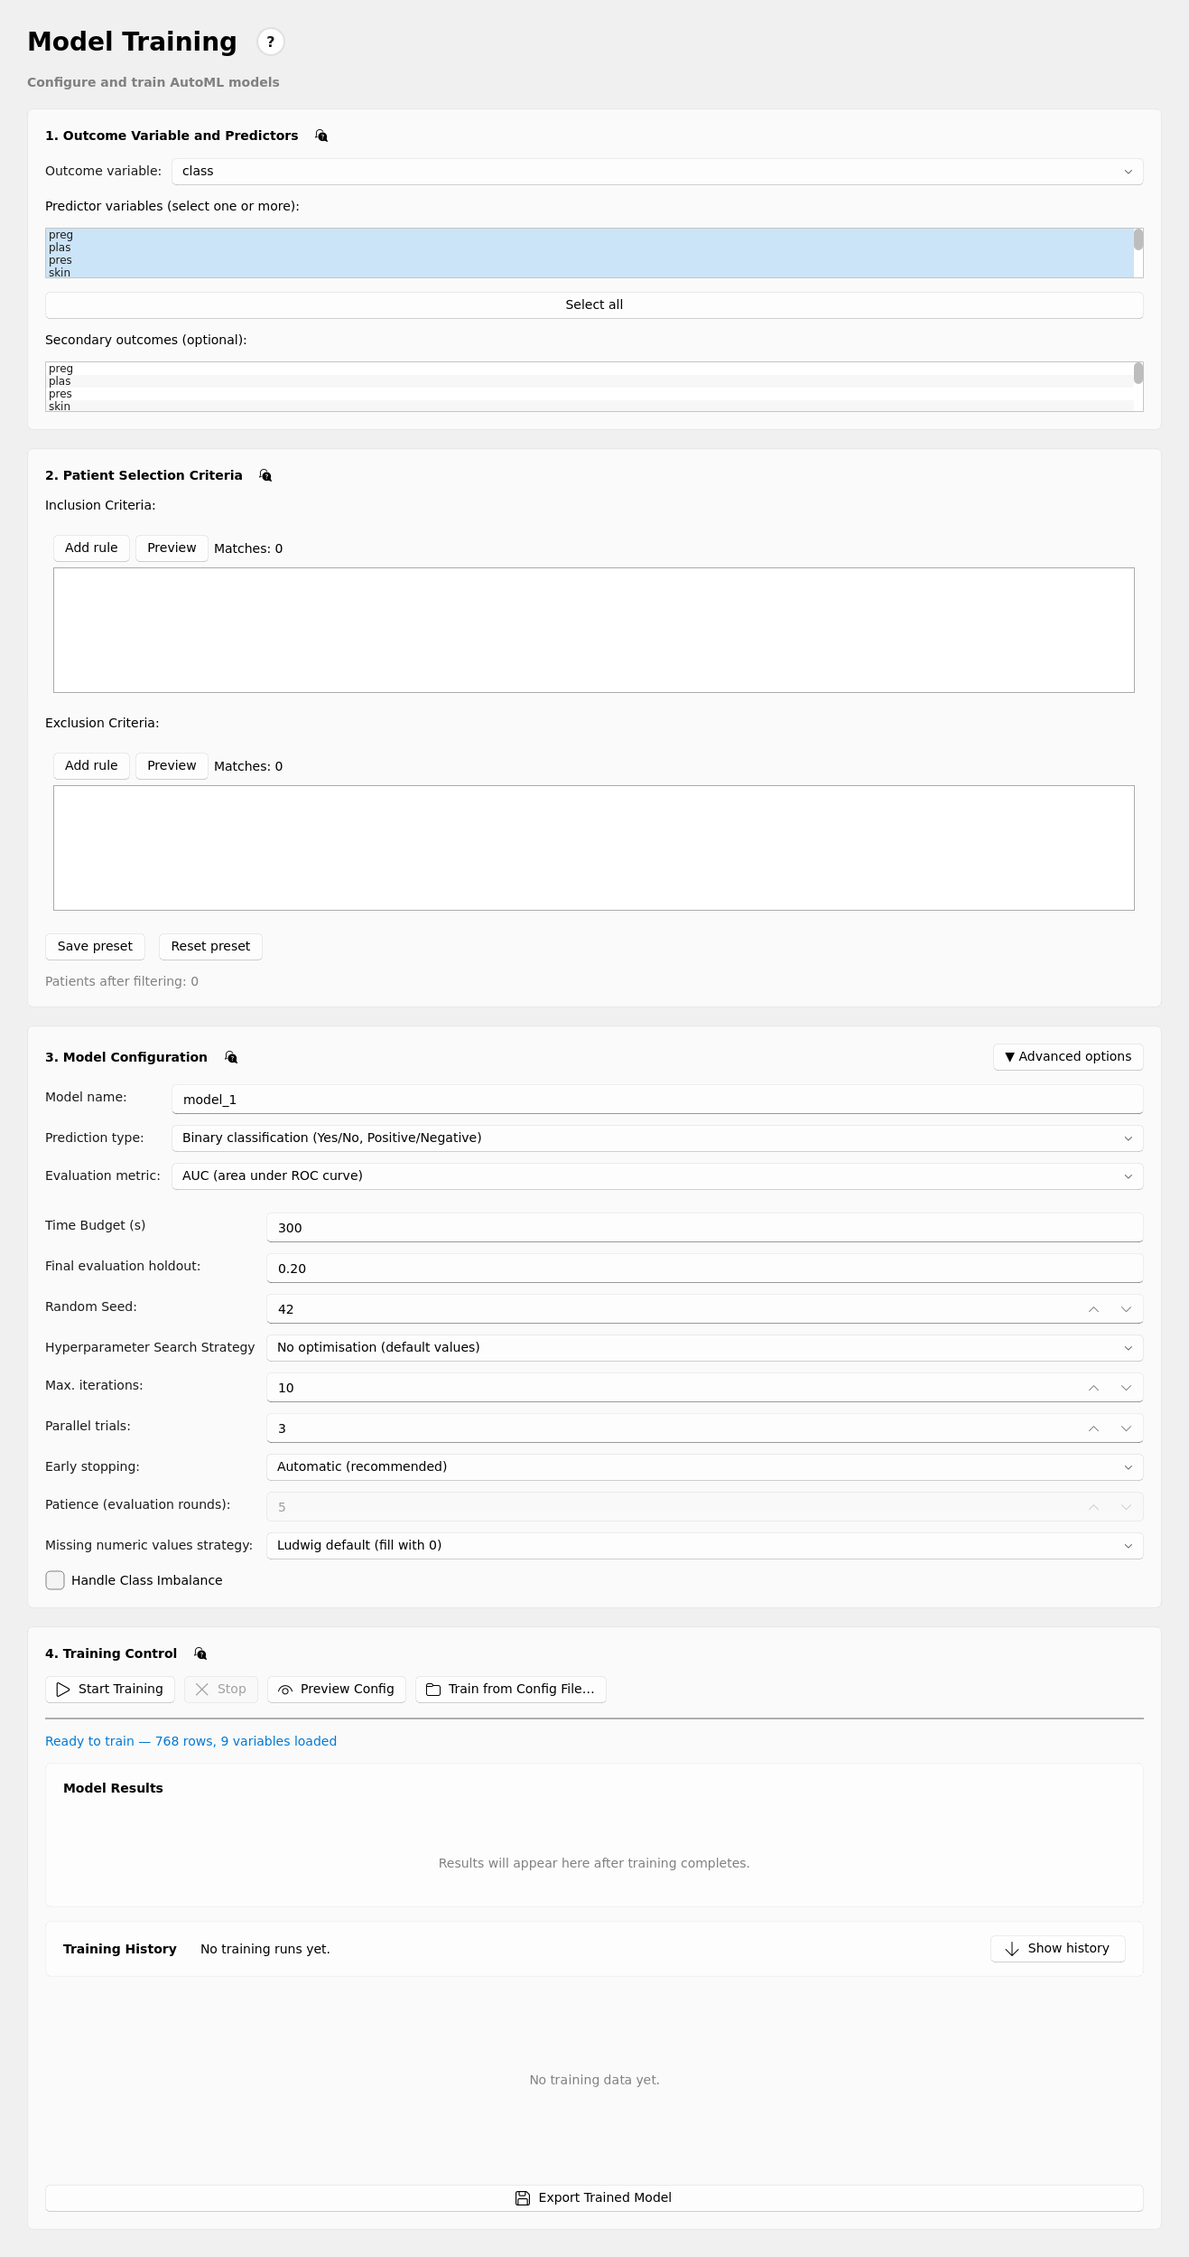
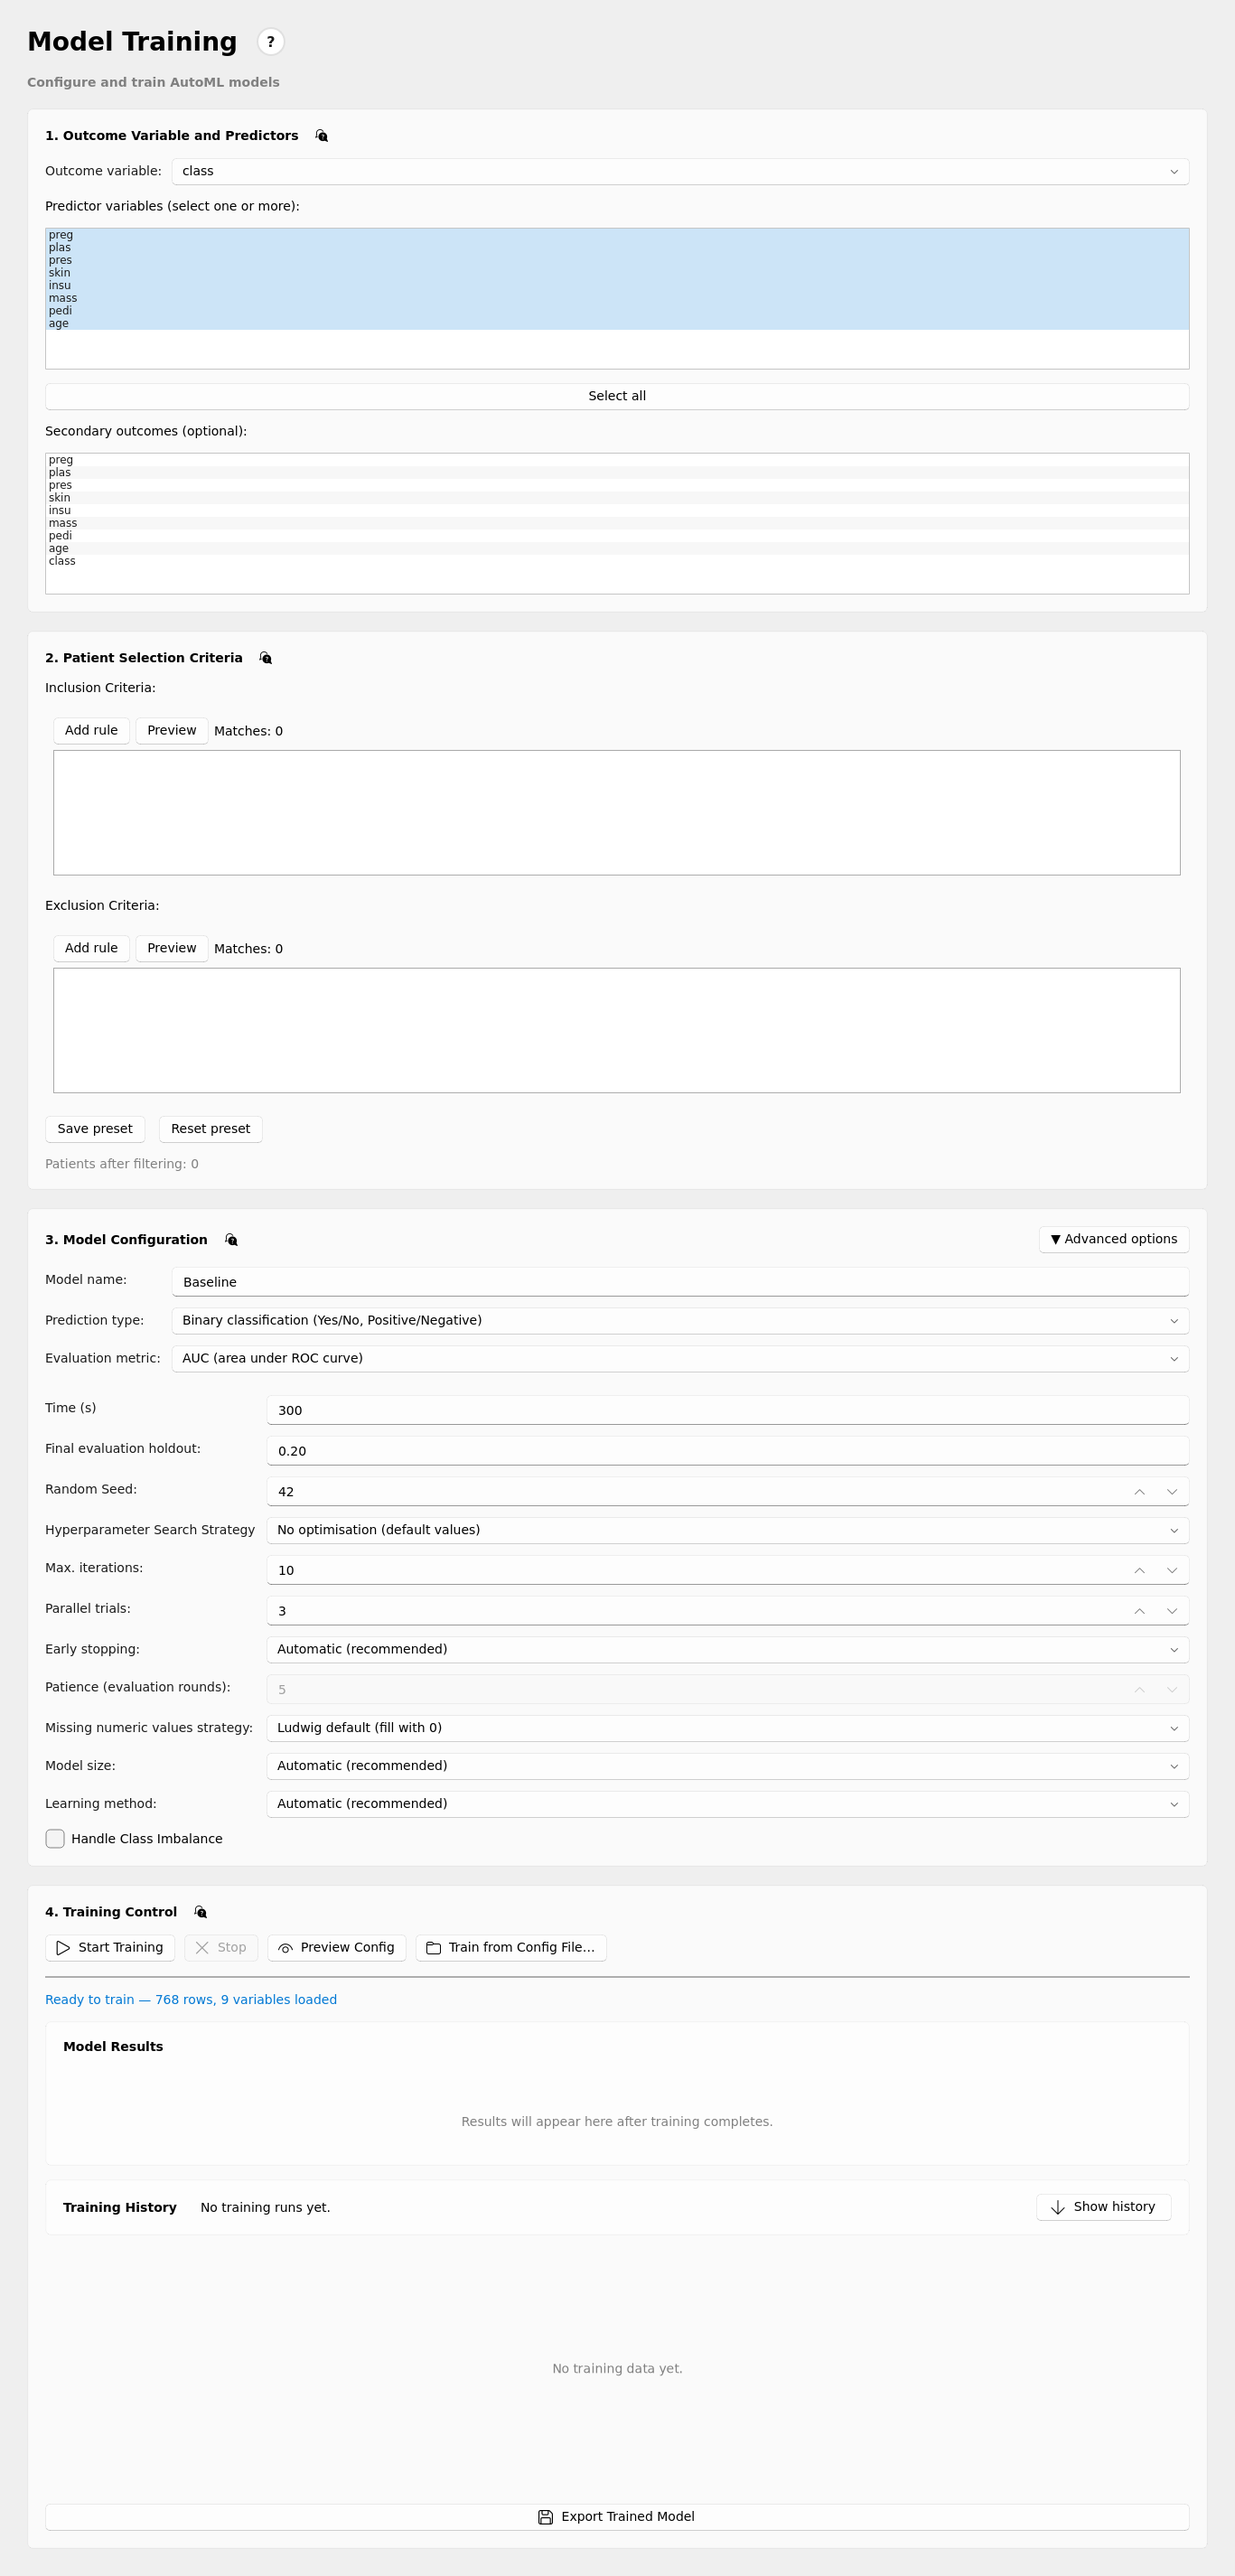
Refresh training screenshots and add the pre-training summary window

diff --git a/src/hamelin/view/widgets/training_summary_dialog.py b/src/hamelin/view/widgets/training_summary_dialog.py
@@ -50,7 +50,10 @@ def _row_widget(row: SummaryRow) -> QWidget:
     lay.setContentsMargins(0, 4, 0, 4)
     lay.setSpacing(12)
 
-    left = QVBoxLayout()
+    left_box = QWidget()
+    left_box.setFixedWidth(330)          # same column width on every row
+    left = QVBoxLayout(left_box)
+    left.setContentsMargins(0, 0, 0, 0)
     left.setSpacing(2)
     label = StrongBodyLabel(row.label)
     label.setWordWrap(True)
@@ -60,19 +63,19 @@ def _row_widget(row: SummaryRow) -> QWidget:
         hint.setWordWrap(True)
         bind_style(hint, lambda c: f"color: {c.text_secondary}; font-size: 12px;")
         left.addWidget(hint)
-    lay.addLayout(left, 5)
+    lay.addWidget(left_box, 0, Qt.AlignTop)
 
     value = BodyLabel(row.value)
     value.setWordWrap(True)
     value.setTextInteractionFlags(Qt.TextSelectableByMouse)
-    lay.addWidget(value, 4)
+    lay.addWidget(value, 1, Qt.AlignTop)
 
     pill = BodyLabel(t(_ORIGIN_KEYS[row.origin]) if row.origin else "")
     pill.setAlignment(Qt.AlignRight | Qt.AlignTop)
     if row.origin:
         pill.setStyleSheet(f"color: {_ORIGIN_COLOURS[row.origin]}; font-weight: 600;")
-    pill.setMinimumWidth(110)
-    lay.addWidget(pill, 0)
+    pill.setFixedWidth(170)
+    lay.addWidget(pill, 0, Qt.AlignTop)
     return box
 
 

diff --git a/docs/hamelin/MANUAL.es.md b/docs/hamelin/MANUAL.es.md
@@ -247,6 +247,8 @@ Solo se muestran tres campos por defecto; el resto vive tras "▶ Advanced optio
 3. Al terminar, el panel de Resultados muestra 4 tarjetas según lo entrenado: clasificación (AUC-ROC, Accuracy, Sensitivity, Specificity) o regresión (R², RMSE, MAE, Loss); cualquier otra métrica de Ludwig aparece en una línea más pequeña. Matriz de confusión y curva ROC para tareas de clasificación, cuando están disponibles.
 4. **Stop** cancela en cualquier momento; se muestran los resultados parciales hasta el último trial completado.
 
+![Review before training](images/training_summary.png)
+
 **Preview Config** (junto a Start Training): abre una ventana de solo lectura con la configuración de Ludwig que se usará, construida a partir de tus elecciones en *Model Configuration* — sin entrenar. AutoML completa el resto (arquitectura, encoders…) al empezar; si has preparado una config fija (modelo duplicado o archivo importado), muestra esa config exacta. La configuración final completa de cada modelo entrenado se consulta después en la página *Evaluation* (**View Config**).
 
 **«How to read this result»** (en inglés, debajo del resumen verde; aparece tras entrenar y, para cada modelo, en *Evaluation*). Lo generan **reglas explícitas** (no un modelo de IA), así que es reproducible y auditable. Contiene:

diff --git a/docs/hamelin/MANUAL.md b/docs/hamelin/MANUAL.md
@@ -224,6 +224,8 @@ A visual builder for inclusion/exclusion rules (column, operator, value). A pati
 3. When it finishes, the Results panel shows four cards: for classification AUC-ROC, Accuracy, Sensitivity and Specificity; for regression R², RMSE, MAE and Loss. Confusion matrix and ROC curve are shown for classification.
 4. **Stop** cancels at any time; partial results up to the last completed trial are shown.
 
+![Review before training](images/training_summary.png)
+
 **Preview Config** opens a read-only window with the Ludwig configuration that will be used, built from your choices, without training. AutoML completes the rest (architecture, encoders, …) when it starts.
 
 **How to read this result** appears under the green summary after training and, for each model, in Evaluation. It is written in English and generated by **explicit rules** (not by an AI model), so it is reproducible and auditable:

diff --git a/README.md b/README.md
@@ -113,7 +113,8 @@ The built-in **Help** page explains each screen in detail.
 |---|---|
 | ![Project](docs/hamelin/images/project_page.png) **Project** | ![Data](docs/hamelin/images/data_page.png) **Data** |
 | ![Training](docs/hamelin/images/training_page.png) **Training** | ![Advanced training settings](docs/hamelin/images/training_page_advanced.png) **Advanced training settings** |
-| ![Evaluation](docs/hamelin/images/evaluation_page.png) **Evaluation** | ![Model comparison](docs/hamelin/images/evaluation_compare_page.png) **Model comparison** |
+| ![Review before training](docs/hamelin/images/training_summary.png) **Review before training** | ![Evaluation](docs/hamelin/images/evaluation_page.png) **Evaluation** |
+| ![Model comparison](docs/hamelin/images/evaluation_compare_page.png) **Model comparison** | |
 
 ## Projects, configuration and generated models
 
